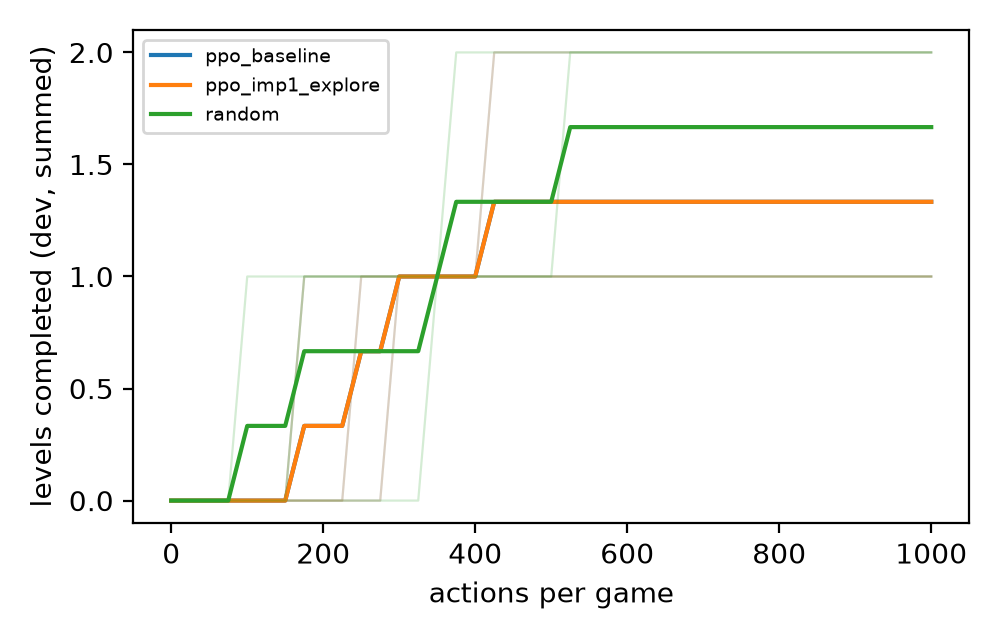
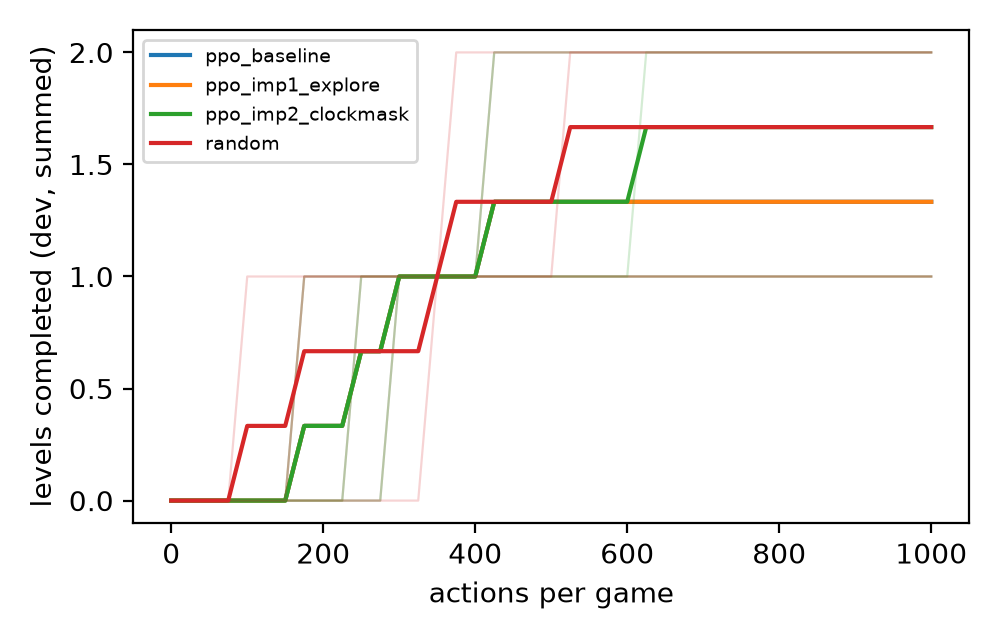
worked on the impronement 2

diff --git a/outputs/figures/summary.tex b/outputs/figures/summary.tex
@@ -4,8 +4,10 @@ run_name & split & seeds & score_mean & score_std & score_ci95 & levels_mean & l
 \midrule
 dqn_baseline & dev & 3 & 0.11 & 0.18 & 0.20 & 1.67 & 0.58 & 0.00 & 15000.00 & 1423.64 & 0.67 & 5738.00 \\
 dqn_imp1_explore & dev & 3 & 0.11 & 0.18 & 0.20 & 2.00 & 1.00 & 0.00 & 15000.00 & 1410.52 & 0.74 & 6577.00 \\
+dqn_imp2_clockmask & dev & 3 & 0.11 & 0.18 & 0.20 & 2.67 & 0.58 & 0.00 & 15000.00 & 1548.01 & 0.74 & 6981.67 \\
 ppo_baseline & dev & 3 & 0.00 & 0.00 & 0.00 & 1.33 & 0.58 & 0.00 & 15000.00 & 494.39 & 0.68 & 5911.33 \\
 ppo_imp1_explore & dev & 3 & 0.00 & 0.00 & 0.00 & 1.33 & 0.58 & 0.00 & 15000.00 & 1031.96 & 0.71 & 6356.00 \\
+ppo_imp2_clockmask & dev & 3 & 0.00 & 0.00 & 0.00 & 1.67 & 0.58 & 0.00 & 15000.00 & 546.76 & 0.71 & 6677.67 \\
 random & dev & 3 & 0.01 & 0.01 & 0.01 & 1.67 & 0.58 & 0.00 & 15000.00 & 55.45 & 0.68 & 5922.33 \\
 \bottomrule
 \end{tabular}

diff --git a/docs/EXPERIMENT_LOG.md b/docs/EXPERIMENT_LOG.md
@@ -13,6 +13,8 @@ Hardware for all rows so far: MacBook Pro, Intel x86_64 CPU, no GPU, torch 2.2.2
 | 24 Sept | ppo_baseline (rerun) | ppo_baseline.yaml | dev | 0,1,2 | 0.003 ± 0.002 | 1.33 ± 0.58 | 8 min | identical; change 0.675, unique 5911 |
 | 24 Sept | dqn_imp1_explore | dqn_imp1_explore.yaml | dev | 0,1,2 | 0.112 ± 0.177 | 2.00 ± 1.00 | 24 min | change 0.742, unique 6577 |
 | 24 Sept | ppo_imp1_explore | ppo_imp1_explore.yaml | dev | 0,1,2 | 0.003 ± 0.002 | 1.33 ± 0.58 | 17 min | change 0.712, unique 6356 |
+| 24 Sept | dqn_imp2_clockmask | dqn_imp2_clockmask.yaml | dev | 0,1,2 | 0.113 ± 0.176 | 2.67 ± 0.58 | 26 min | change 0.741, unique 6982; new: r11l s1@811, sp80 s2@587 |
+| 24 Sept | ppo_imp2_clockmask | ppo_imp2_clockmask.yaml | dev | 0,1,2 | 0.003 ± 0.003 | 1.67 ± 0.58 | 9 min | change 0.711, unique 6678; new: sp80 s0@616 |
 
 Budget: 1000 actions per game, 15 dev games, 15 000 actions per seed. No wins in any run.
 `change` = share of non-reset actions that changed the frame (mean over games); `unique` = distinct frames per seed
@@ -104,13 +106,44 @@ under fixed seeds. Wall time varies ±40% between runs on the same laptop, so co
 - **Check first (cheap):** rerun `scripts/diagnose_changes.py`. For tick games, `clock_px` should be > 0,
   `change_rate_clockmasked` should fall well below 1.0 and `unique_frames_clockmasked` should shrink. For sprite games
   (ls20, r11l), values should stay close to the unmasked ones.
+- **Check result (24 Sept, random policy):** masked change rate fell from ≈1.0 to 0.16–0.25 in tick games
+  (s5i5 0.19, sp80 0.18, su15 0.16, tn36 0.22, ka59 0.25, cn04 0.18) and to 0.51 in tu93; sprite games were almost
+  untouched (ls20 1.00, re86 1.00, wa30 0.83); r11l fell to 0.60; the rare-change games were unchanged (sb26, sc25 and sk48
+  had 0 masked pixels). Artefact: the mask grows during play, so one screen can hash differently before and after a pixel
+  is masked. This inflates masked distinct-frame counts slightly (ls20 277→294, tn36 114→126) and splits some novelty counts.
 - **Evaluation:** 3 seeds each for DQN and PPO against improvement 1. Report change rate and distinct frames masked and
   unmasked, levels, score, and per-game results for tick games vs. others.
-- **Result:**
+- **Result, DQN (24 Sept): +2 levels over improvement 1, both late in a game; still no level 2.**
+  - Levels 2.00 ± 1.00 → 2.67 ± 0.58 (per seed 3, 2, 3); random and baseline 1.67.
+  - Common random numbers matter here. All configs share seeds, and DQN's ε is ≈1 early in each game, so the first
+    actions are near-identical across versions. Completions at the same action index in several versions are that shared
+    early luck, not an improvement effect: r11l seed 0 at action 32 and sp80 seed 0 at 54 (baseline, imp1, imp2), and lp85
+    seeds 1–2 at 94/86 (imp1, imp2). Those two seed-0 completions also produce almost all of DQN's official score in every
+    version, which is why the score is flat (0.108 → 0.112 → 0.113).
+  - The completions unique to improvement 2 are **r11l seed 1 at action 811** and **sp80 seed 2 at 587**, both late
+    (ε ≈ 0.25–0.45), when learned values drive most actions. sp80 is a tick game, the hypothesis's target case.
+  - Exploration gains sit in tick games, as predicted (distinct frames, imp1 → imp2): s5i5 205 → 300, sp80 337 → 495,
+    su15 191 → 355, tn36 344 → 363. Rare-change and sprite games are unchanged (sb26 296 → 278, sc25 414 → 417,
+    ls20 830 → 825).
+  - Total distinct frames 6577 → 6982 (+6%). Unmasked change rate unchanged (0.741), as expected.
+  - With 3 seeds and 2 extra completions, the gain is suggestive, not established.
+- **Result, PPO (24 Sept): one extra late completion.**
+  - Levels 1.33 → 1.67. r11l (174/284/417) and lp85 seed 2 (246) repeat at the same actions in every PPO version, so
+    they come from the shared early action stream. The new completion is **sp80 seed 0 at action 616**, again a tick game.
+  - Tick-game exploration rose (sp80 308 → 422, tn36 339 → 377, tu93 421 → 515); total distinct frames 6356 → 6678.
+    Score unchanged (0.003).
+  - PPO remains at the random-policy level on levels; DQN benefits more from both exploration improvements.
+- **Analysis rule adopted from here:** a completion counts as evidence for a change only if it does not occur at the same
+  action index in the previous version with the same seed. Report early shared completions separately.
+- **Open problem for any next step:** no run in any configuration has completed level 2. Every success is one level-1
+  completion, and each game starts from freshly initialised weights, so each game relearns from zero which actions matter.
 
-### Improvement 3 candidate (`*_imp3_memory.yaml`)
-Frame-stack memory on top of improvement 2, justified if improvement 2 shows agents reaching new states without converting
-them into level progress within a life. Decide after improvement 2 results.
+### Improvement 3 — options (decide before running)
+- **Memory (`*_imp3_memory.yaml`, 4-frame stack):** addresses partial observability within a life. Current evidence does
+  not point to this as the bottleneck.
+- **Cross-game pretraining (`scripts/pretrain.py` + `init_checkpoint`):** addresses the observed problem that every game
+  starts from scratch. Weights are pretrained sequentially on dev games, then evaluated only on held-out games, with online
+  learning continuing. This is also the brief's generalisation question. It must never be scored on dev games.
 
 ## Failure cases to show in the report
 | Run | Seed | Game | What happened | Evidence |

diff --git a/outputs/figures/summary.md b/outputs/figures/summary.md
@@ -1,7 +1,9 @@
-| run_name         | split   |   seeds |   score_mean |   score_std |   score_ci95 |   levels_mean |   levels_std |   wins_mean |   actions_mean |   wall_time_s_mean |   change_rate_mean |   unique_states_mean |
-|:-----------------|:--------|--------:|-------------:|------------:|-------------:|--------------:|-------------:|------------:|---------------:|-------------------:|-------------------:|---------------------:|
-| dqn_baseline     | dev     |       3 |        0.108 |       0.18  |        0.204 |         1.667 |        0.577 |           0 |          15000 |           1423.64  |              0.671 |              5738    |
-| dqn_imp1_explore | dev     |       3 |        0.112 |       0.177 |        0.2   |         2     |        1     |           0 |          15000 |           1410.52  |              0.742 |              6577    |
-| ppo_baseline     | dev     |       3 |        0.003 |       0.002 |        0.002 |         1.333 |        0.577 |           0 |          15000 |            494.387 |              0.675 |              5911.33 |
-| ppo_imp1_explore | dev     |       3 |        0.003 |       0.002 |        0.002 |         1.333 |        0.577 |           0 |          15000 |           1031.96  |              0.712 |              6356    |
-| random           | dev     |       3 |        0.01  |       0.011 |        0.012 |         1.667 |        0.577 |           0 |          15000 |             55.447 |              0.676 |              5922.33 |
+| run_name           | split   |   seeds |   score_mean |   score_std |   score_ci95 |   levels_mean |   levels_std |   wins_mean |   actions_mean |   wall_time_s_mean |   change_rate_mean |   unique_states_mean |
+|:-------------------|:--------|--------:|-------------:|------------:|-------------:|--------------:|-------------:|------------:|---------------:|-------------------:|-------------------:|---------------------:|
+| dqn_baseline       | dev     |       3 |        0.108 |       0.18  |        0.204 |         1.667 |        0.577 |           0 |          15000 |           1423.64  |              0.671 |              5738    |
+| dqn_imp1_explore   | dev     |       3 |        0.112 |       0.177 |        0.2   |         2     |        1     |           0 |          15000 |           1410.52  |              0.742 |              6577    |
+| dqn_imp2_clockmask | dev     |       3 |        0.113 |       0.176 |        0.199 |         2.667 |        0.577 |           0 |          15000 |           1548.01  |              0.741 |              6981.67 |
+| ppo_baseline       | dev     |       3 |        0.003 |       0.002 |        0.002 |         1.333 |        0.577 |           0 |          15000 |            494.387 |              0.675 |              5911.33 |
+| ppo_imp1_explore   | dev     |       3 |        0.003 |       0.002 |        0.002 |         1.333 |        0.577 |           0 |          15000 |           1031.96  |              0.712 |              6356    |
+| ppo_imp2_clockmask | dev     |       3 |        0.003 |       0.003 |        0.003 |         1.667 |        0.577 |           0 |          15000 |            546.757 |              0.711 |              6677.67 |
+| random             | dev     |       3 |        0.01  |       0.011 |        0.012 |         1.667 |        0.577 |           0 |          15000 |             55.447 |              0.676 |              5922.33 |
